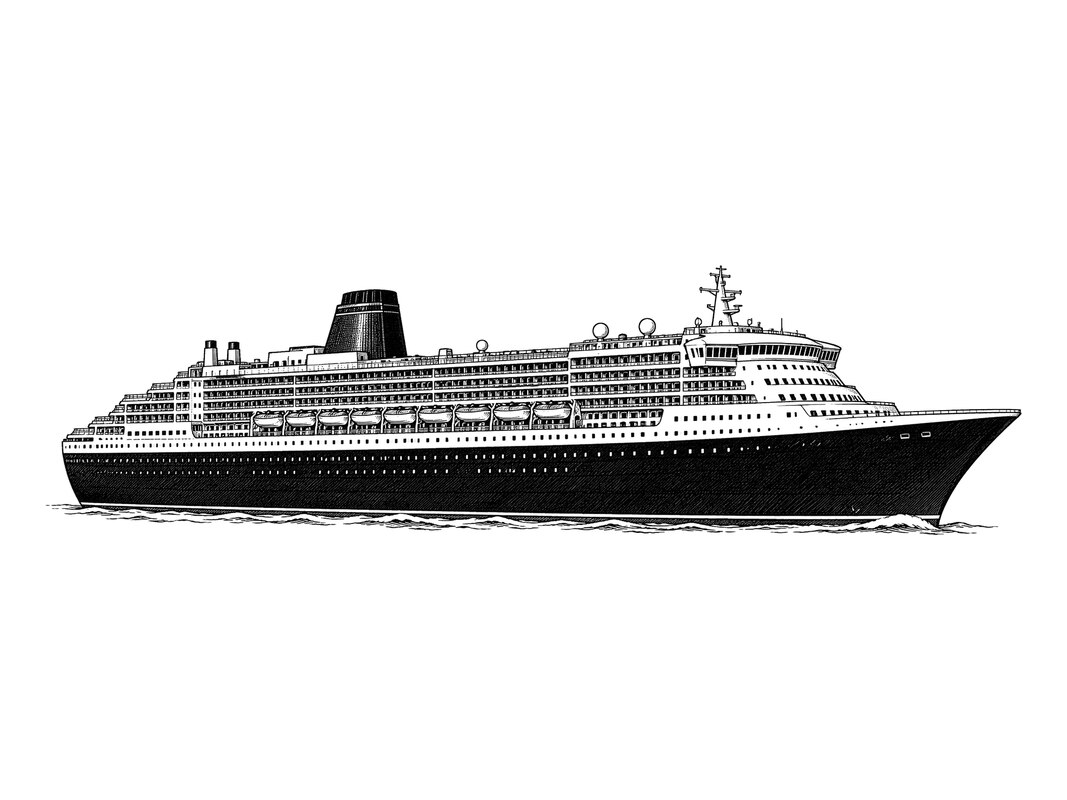
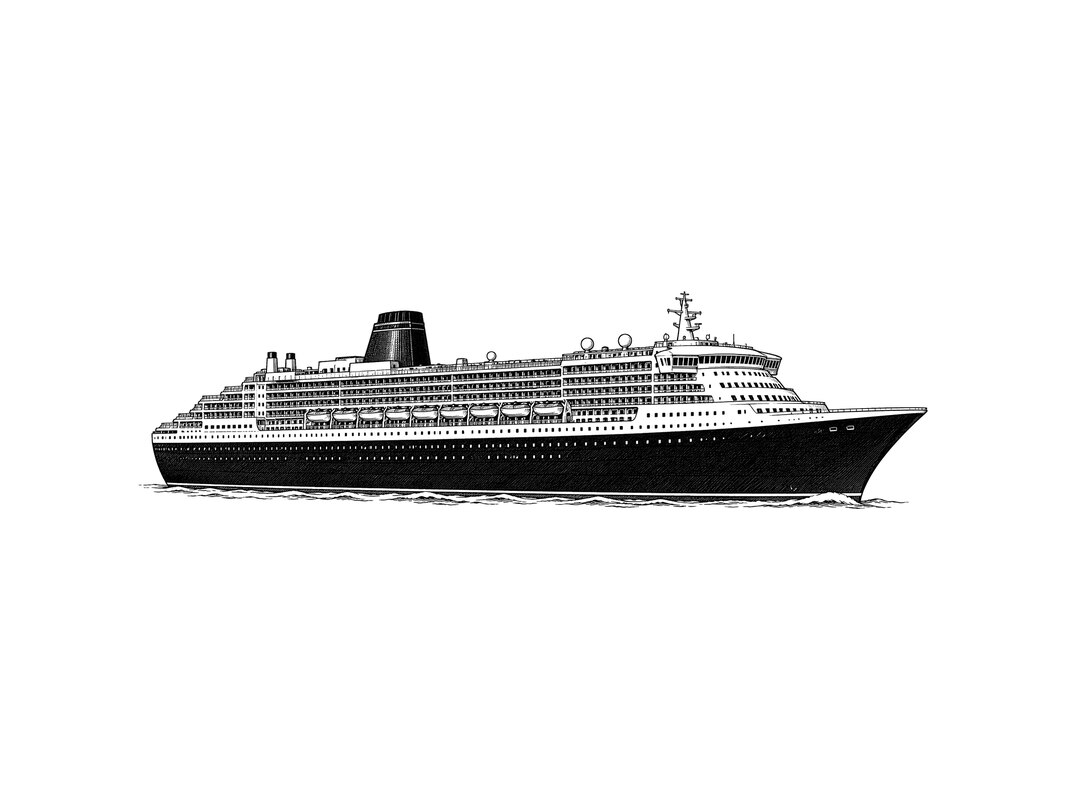
Keep the ship and footer within the device layouts

Changed region(s): [[0.0619, 0.3438, 0.9588, 0.6875]]

diff --git a/docs/IMAGE_UPDATE_2026-11-14.md b/docs/IMAGE_UPDATE_2026-11-14.md
@@ -12,4 +12,4 @@ Original black-ink museum engraving for monochrome e-paper, showing Cunard's Que
 - `assets/exhibits/responsive-v2/queen-mary-2-crossings-standard-4x3.jpg`: 1067×800 grayscale JPEG.
 - `assets/exhibits/queen-mary-2-crossings.jpg` mirrors the standard export.
 
-Normalize near-white paper above 96%; contain the artwork within 1250×430 (wide) and 977×680 (standard), center on white, and export at quality 87. Inspect full, both halves and quadrant on OG, X landscape and X portrait.
+Normalize near-white paper above 96%; contain the artwork within 1040×430 (wide) and 790×680 (standard), center on white, and export at quality 87. The narrower fits preserve the bow and stern in X portrait Full. Inspect full, both halves and quadrant on OG, X landscape and X portrait.
